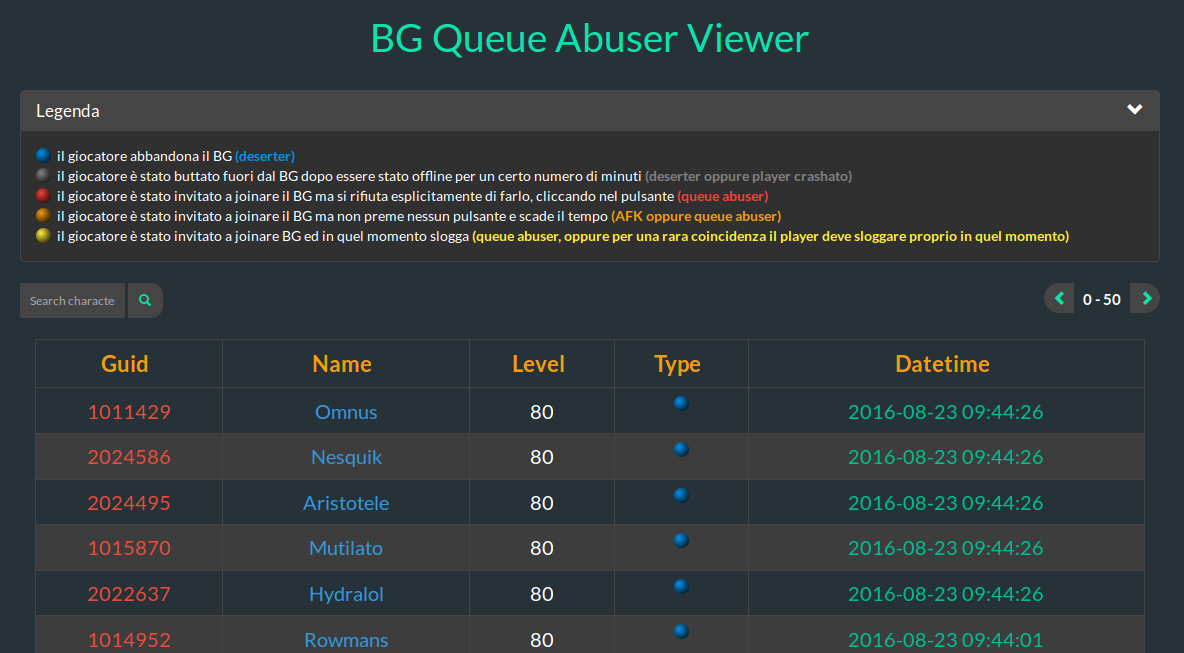
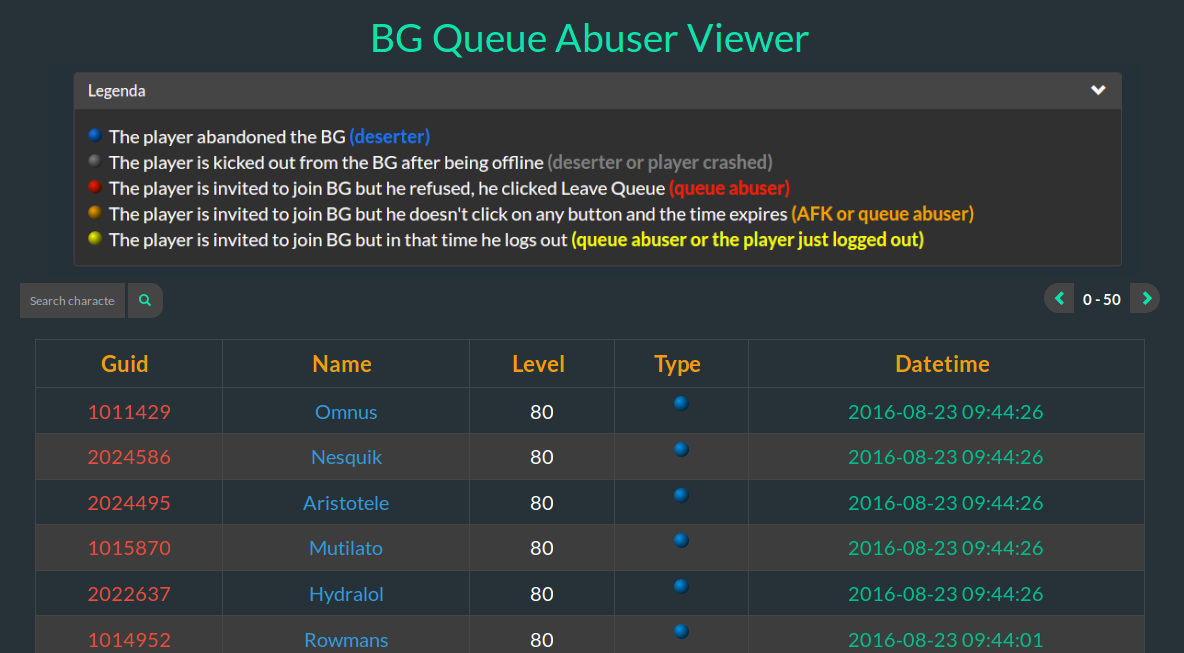
updated, make comaptible with AzerothCore API

Changed region(s): [[0.0, 0.0919, 1.0, 0.3982]]

diff --git a/index.html b/index.html
@@ -45,26 +45,26 @@
               <uib-accordion-heading>
                 Legenda <i class="pull-right glyphicon" ng-class="{'glyphicon-chevron-down': status, 'glyphicon-chevron-right': !status}"></i>
               </uib-accordion-heading>
-              <table class="legenda">
+              <table>
                 <tr>
                   <td><figure class="circle circle-blue"></figure></td>
-                  <td>&nbsp; il giocatore abbandona il BG <b class="type0">(deserter)</b></td>
+                  <td>&nbsp; The player abandoned the BG <b class="type0">(deserter)</b></td>
                 </tr>
                 <tr>
                   <td><figure class="circle circle-grey"></figure></td>
-                  <td>&nbsp;  il giocatore è stato buttato fuori dal BG dopo essere stato offline per un certo numero di minuti <b class="type1">(deserter oppure player crashato)</b></td>
+                  <td>&nbsp; The player is kicked out from the BG after being offline <b class="type1">(deserter or player crashed)</b></td>
                 </tr>
                 <tr>
                   <td><figure class="circle circle-red"></figure></td>
-                  <td>&nbsp;  il giocatore è stato invitato a joinare il BG ma si rifiuta esplicitamente di farlo, cliccando nel pulsante <b class="type2">(queue abuser)</b></td>
+                  <td>&nbsp; The player is invited to join BG but he refused, he clicked Leave Queue <b class="type2">(queue abuser)</b></td>
                 </tr>
                 <tr>
                   <td><figure class="circle circle-orange"></figure></td>
-                  <td>&nbsp; il giocatore è stato invitato a joinare il BG ma non preme nessun pulsante e scade il tempo <b class="type3">(AFK oppure queue abuser)</b></td>
+                  <td>&nbsp; The player is invited to join BG but he doesn't click on any button and the time expires <b class="type3">(AFK or queue abuser)</b></td>
                 </tr>
                 <tr>
                   <td><figure class="circle circle-yellow"></figure></td>
-                  <td>&nbsp;  il giocatore è stato invitato a joinare BG ed in quel momento slogga <b class="type4">(queue abuser, oppure per una rara coincidenza il player deve sloggare proprio in quel momento)</b></td>
+                  <td>&nbsp; The player is invited to join BG but in that time he logs out <b class="type4">(queue abuser or the player just logged out)</b></td>
                 </tr>
               </table>
 

diff --git a/js/app/app.js b/js/app/app.js
@@ -13,7 +13,7 @@
      $rootScope.search = $rootScope.name;
 
     /* Retrieve all battleground deserters data */
-    $http.get( app.api + "battleground/deserters/recent/50?from=" + $rootScope.from + "&name=" + $rootScope.name)
+    $http.get( app.api + "characters/battleground_deserters/50?from=" + $rootScope.from + "&name=" + $rootScope.name)
       .success(function (data, status, header, config) {
       $scope.players = data;
 
@@ -21,23 +21,23 @@
         switch(parseInt($scope.players[i].type)) {
           case 0:
             $scope.players[i].status = "blue";
-            $scope.players[i].popover = "il giocatore abbandona il BG (deserter)";
+            $scope.players[i].popover = "the player abandoned the BG (deserter)";
           break;
           case 1:
             $scope.players[i].status = "grey";
-            $scope.players[i].popover = "il giocatore è stato buttato fuori dal BG dopo essere stato offline per un certo numero di minuti (deserter oppure player crashato)";
+            $scope.players[i].popover = "the player is kicked out from the BG after being offline (deserter or player crashed)";
           break;
           case 2:
             $scope.players[i].status = "red";
-            $scope.players[i].popover = "il giocatore è stato invitato a joinare il BG ma si rifiuta esplicitamente di farlo, cliccando nel pulsante (queue abuser)";
+            $scope.players[i].popover = "the player is invited to join BG but he refused, he clicked Leave Queue (queue abuser)";
           break;
           case 3:
             $scope.players[i].status = "orange";
-            $scope.players[i].popover = "il giocatore è stato invitato a joinare il BG ma non preme nessun pulsante e scade il tempo (AFK oppure queue abuser)";
+            $scope.players[i].popover = "the player is invited to join BG but he doesn't click on any button and the time expires (AFK or queue abuser)";
           break;
           case 4:
             $scope.players[i].status = "yellow";
-            $scope.players[i].popover = "il giocatore è stato invitato a joinare BG ed in quel momento slogga (queue abuser, oppure per una rara coincidenza il player deve sloggare proprio in quel momento)";
+            $scope.players[i].popover = "the player is invited to join BG but in that time he logs out (queue abuser or the player just logged out)";
           break;
         }
       }

diff --git a/css/style.css b/css/style.css
@@ -10,8 +10,6 @@ th {
   text-align: center;
 }
 
-.legenda td { font-size: 14px; }
-
 figure { margin: 0 auto; }
 
 .circle {

diff --git a/README.md b/README.md
@@ -1,6 +1,6 @@
 # BG Queue Abuser Viewer
 
-This tool works with the [TC-JSON-API](https://github.com/ShinDarth/TC-JSON-API.git) and it is compatible with [AzerothCore](https://github.com/azerothcore/azerothcore-wotlk) and [TrinityCore](https://github.com/TrinityCore/TrinityCore).
+This tool works with the [TC-JSON-API](https://github.com/ShinDarth/TC-JSON-API.git) and with [AzerothCore API](https://github.com/azerothcore/API).
 
 # ![BG Queue Abuser Viewer](https://raw.githubusercontent.com/Helias/BG-Queue-Abuser-Viewer/master/img/screen.png)
 
